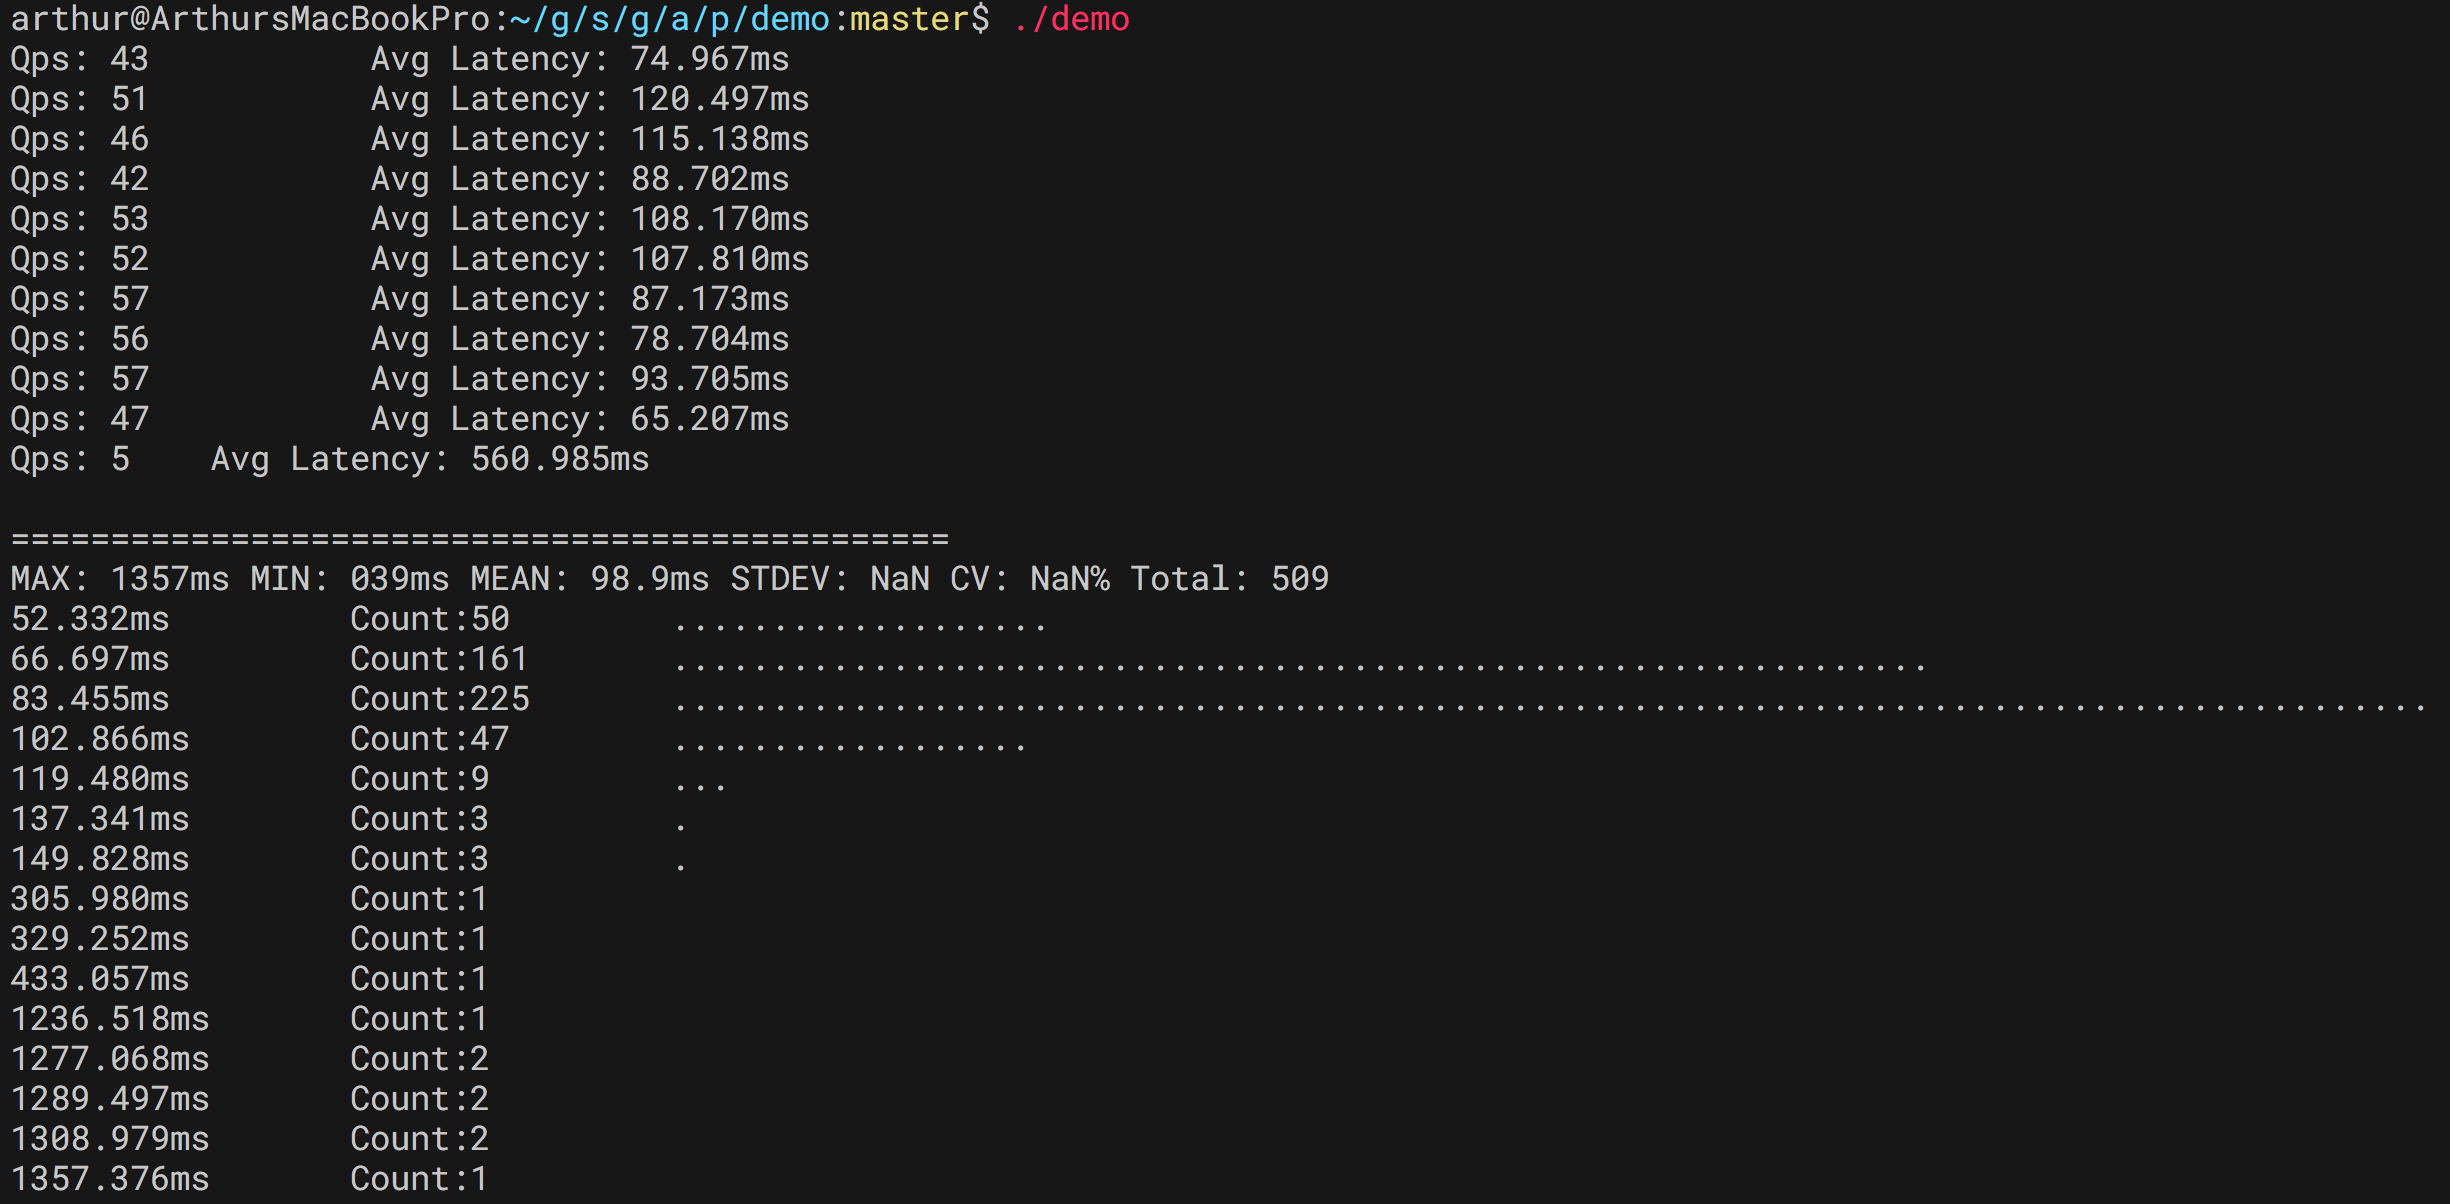
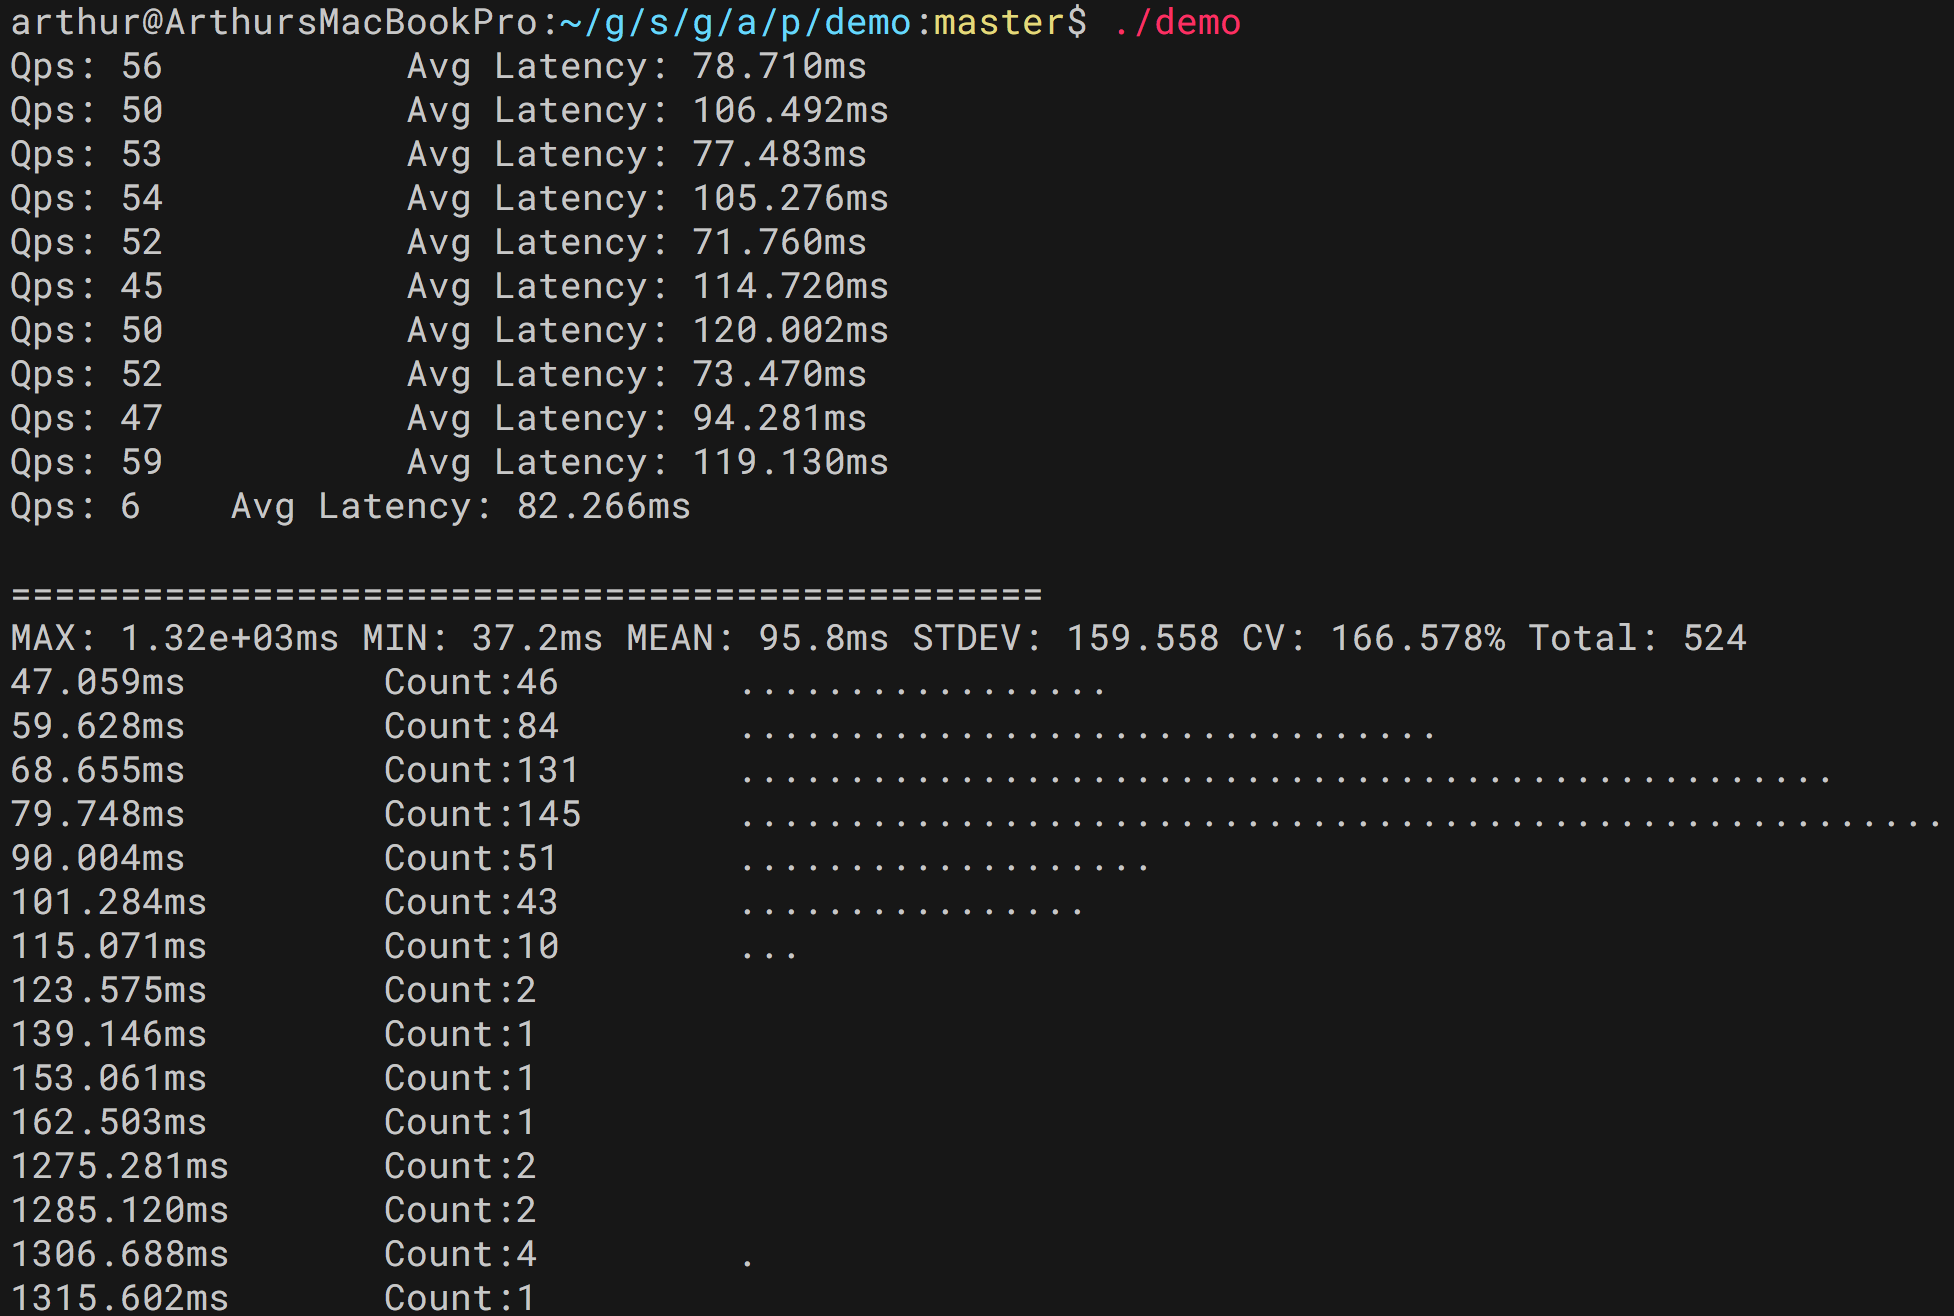
fix int64 to float64 overflow

diff --git a/perfm.go b/perfm.go
@@ -197,10 +197,10 @@ func (p *perfmonitor) Start() {
 // Wait for the benchmark task done and caculate the result
 func (p *perfmonitor) Wait() {
 	p.wg.Wait()
-	var sum2, i, d, max, min int64
+	var sum2, i, d, max, min float64
 	min = 0x7fffffffffffffff
-	for i = 0; i < p.Total; i++ {
-		d = <-p.buffer
+	for i = 0; int64(i) < p.Total; i++ {
+		d = float64(<-p.buffer)
 		p.histogram.Add(float64(d))
 		p.Sum += float64(d)
 		sum2 += d * d

diff --git a/demo/main.go b/demo/main.go
@@ -7,7 +7,7 @@ import (
 )
 
 type job struct {
-	// job data here
+	// job private data
 	url string
 }
 

diff --git a/README.md b/README.md
@@ -9,13 +9,38 @@ a golang performence testing platform
 
 ## demo client
 ```go
-	perfm := perfm.New(perfm.WithBinsNumber(15), perfm.WithParallel(5), perfm.WithDuration(10))
-	j := &job{}
-	j.url = "http://www.baidu.com"
-	perfm.Regist(j)
+type job struct {
+	// job private data
+	url string
+}
 
-	perfm.Start()
-	perfm.Wait()
+// Copy will called in parallel
+func (j *job) Copy() perfm.Job {
+	jc := *j
+	return &jc
+}
+
+func (j *job) Pre() {
+	// do pre job
+}
+func (j *job) Do() error {
+	// do benchmark job
+	_, err := http.Get(j.url)
+	return err
+}
+func (j *job) After() {
+	// do clean job
+}
+
+// start perfm
+
+perfm := perfm.New(perfm.WithBinsNumber(15), perfm.WithParallel(5), perfm.WithDuration(10))
+j := &job{}
+j.url = "http://www.baidu.com"
+perfm.Regist(j)
+
+perfm.Start()
+perfm.Wait()
 
 ```
 ![test demo](./demo/screen.png)
